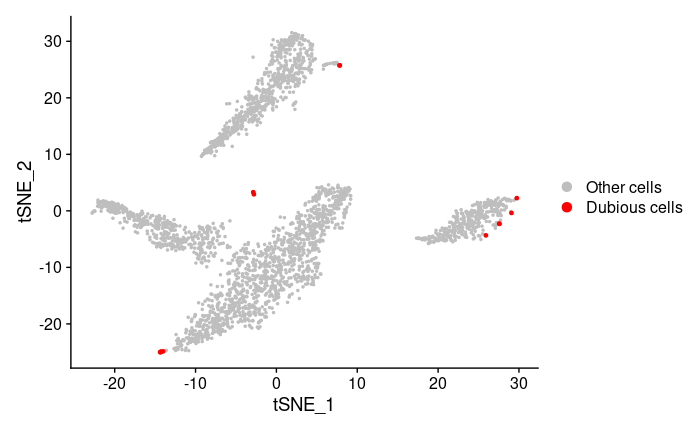
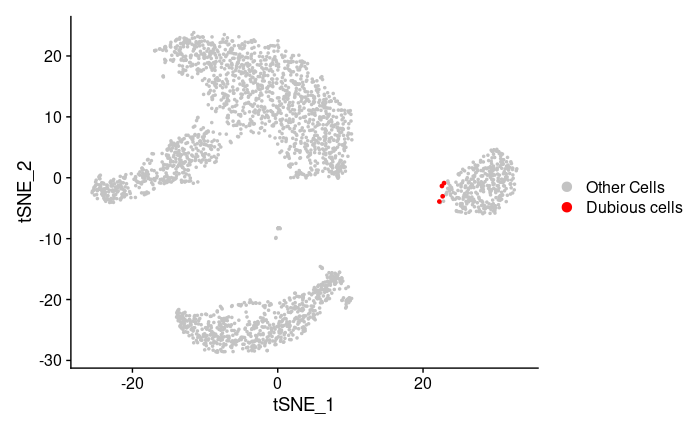
added min.dist

diff --git a/README.md b/README.md
@@ -2,7 +2,7 @@
 <!-- README.md is generated from README.Rmd. Please edit that file -->
 
 # scDEED (single-cell dubious embeddings detector): a statistical method for detecting dubious non-linear embeddings
-- This package is used to determine the reliability of non-linear dimension reduction embeddings. It provides functions to detect dubious cells and trustworthy cells in tSNE and UMAP embeddings. Furthermore, by minimizing the number of dubious cells, functions in this package find the best perplexity parameter of tSNE and the best n.neighbors parameter of UMAP.
+- This package is used to determine the reliability of non-linear dimension reduction embeddings. It provides functions to detect dubious cells and trustworthy cells in tSNE and UMAP embeddings. Furthermore, by minimizing the number of dubious cells, functions in this package find the best perplexity parameter of tSNE and the best n.neighbors/min.dist parameter of UMAP.
 
 - Choose the suitable dimension for PCA (num_pc)
 
@@ -46,17 +46,33 @@ head(umap_example$`number of dubious cells corresponding to n.neighbors list`)
 ```
 |   |  n.neighbors |  number.of.dubious.cells |
 | - | ------------ | ------------------------ |
-| 1 | 	5           | 	42		                    |
-| 2 | 	6           | 	25		                    |
-| 3 | 	7           | 	57		                    |
-| 4 | 	8           | 	20		                    |
-| 5 | 	9           | 	6		                     |
-| 6 | 	10          | 	32		                    |
+| 1 | 	5           | 	7		                    |
+| 2 | 	6           | 	4		                    |
+| 3 | 	7           | 	5		                    |
+| 4 | 	8           | 	2		                    |
+| 5 | 	9           | 	5		                     |
+| 6 | 	10          | 	7		                    |
 
 ``` r
 umap_example$`best n.neighbors`
 ```
-9
+13
+
+```r
+head(umap_example$`number of dubious cells corresponding to min.dist list`)
+```
+|   |  min.dist |  number.of.dubious.cells |
+| - | ------------ | ------------------------ |
+| 1 | 	0.1           | 	11		                    |
+| 2 | 	0.3           | 	9		                    |
+| 3 | 	0.5           | 	4		                    |
+| 4 | 	0.7           | 	7		                    |
+| 5 | 	0.9           | 	2		                     |
+
+```r
+umap_example$`best min.dist`
+```
+0.9
 
 ``` r
 umap_example$`UMAP plot with dubious cells`
@@ -72,10 +88,16 @@ UMAP Plot corresponding to the best n.neighbers, highlighting the trustworthy ce
 <img src="man/figures/umap_trustworthy.png" width="100%" /> 
 
 ``` r
-umap_example$`plot. # of dubious embeddings vs parameters`
+umap_example$`plot. # of dubious embeddings vs n.neighbors`
 ```
 Plot of number of dubious embeddings vs parameters for UMAP:
-<img src="man/figures/umap dub em vs parameter.png" width="100%" /> 
+<img src="man/figures/umap dub em vs n.neighbors.png" width="100%" /> 
+
+``` r
+umap_example$`plot. # of dubious embeddings vs min.dists`
+```
+Plot of number of dubious embeddings vs parameters for UMAP:
+<img src="man/figures/umap dub em vs min.dist.png" width="100%" /> 
 
 ### Example for tsne
 
@@ -89,18 +111,18 @@ head(tsne_example$`number of dubious cells corresponding to perplexity list`)
 
 |   |  perplexity |  number.of.dubious.cells |
 | - | ----------- | ------------------------ |
-| 1 | 	20         | 	30                      |
-| 2 | 	50         | 	50                      |
-| 3 | 	80         | 	20                      |
-| 4 | 	110        | 	14                      |
-| 5 | 	140        | 	23                      |
-| 6 | 	170        | 	23                      |
+| 1 | 	20         | 	14                      |
+| 2 | 	50         | 	9                      |
+| 3 | 	80         | 	4                      |
+| 4 | 	110        | 	5                      |
+| 5 | 	140        | 	5                      |
+| 6 | 	170        | 	5                      |
 
 
 ``` r
 tsne_example$`best perplexity`
 ```
-110
+80
 
 ``` r
 tsne_example$`tSNE plot with dubious cells`
